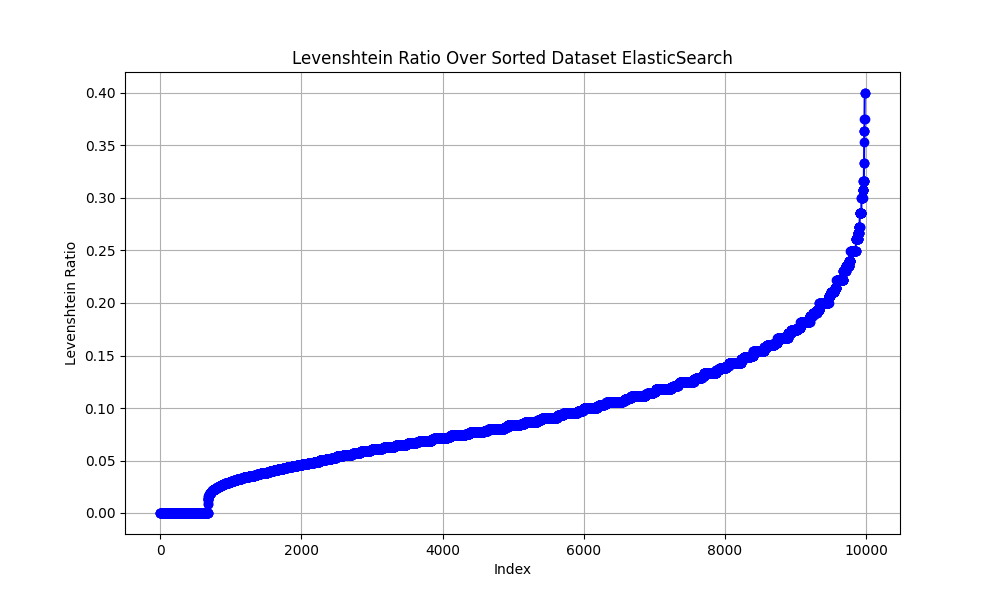
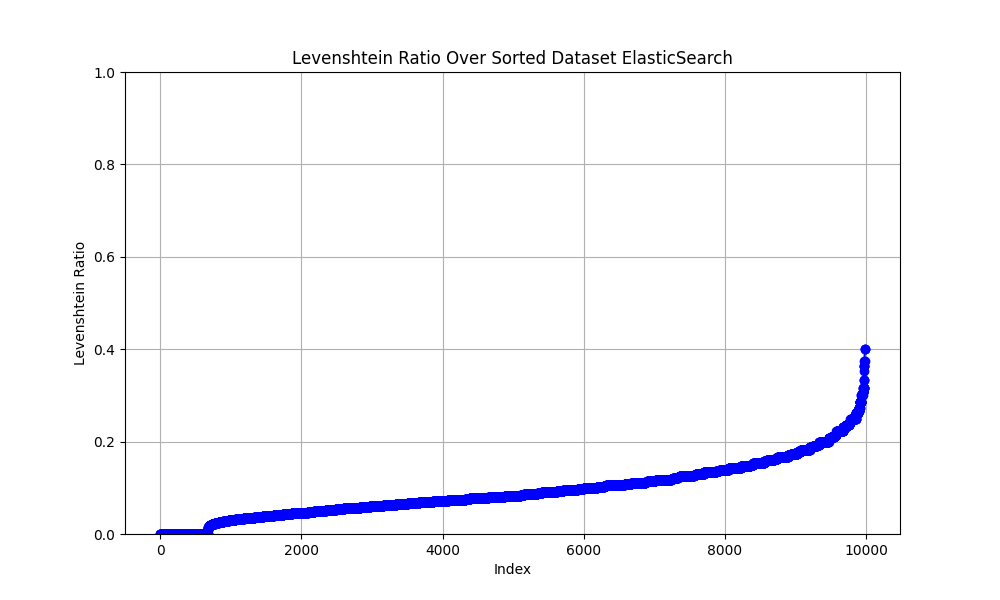
Add y value of 1.0 for elastic search

diff --git a/testing-results/testing.py b/testing-results/testing.py
@@ -3,14 +3,11 @@ import pandas as pd
 import numpy as np
 import matplotlib.pyplot as plt
 
-method = ['theAdvisor', 'PostgreSQL','MongoDB','ElasticSearch']
+method = ['ElasticSearch']
 
-file_paths = ['../data/the-advisor-match-all-1.csv', 
-              '../postreSQL/matching_results_postresql.csv',
-              '../mongoDB/matching_results_mongodb.csv',
-              '../elasticSearch/elasticsearch_matching_results.csv']
+file_paths = ['../elasticSearch/elasticsearch_matching_results.csv']
 
-output_file_paths = ['../graphs/the-advisor','../graphs/postgresql', '../graphs/mongodb', '../graphs/elasticsearch']
+output_file_paths = ['../graphs/elasticsearch']
 
 for i in range(len(file_paths)):
     data = pd.read_csv(file_paths[i])
@@ -33,6 +30,7 @@ for i in range(len(file_paths)):
 
     plt.figure(figsize=(10, 6))
     plt.plot(data_sorted.index, data_sorted['Levenshtein_Ratio'], marker='o', linestyle='-', color='b')
+    plt.ylim(0, 1)
     plt.title('Levenshtein Ratio Over Sorted Dataset '+method[i])
     plt.xlabel('Index')
     plt.ylabel('Levenshtein Ratio')
@@ -40,7 +38,7 @@ for i in range(len(file_paths)):
     plt.savefig(output_file_paths[i]+'-levenshtein-ratio.png')
 
 #---------------------Levenshtein Distance-----------------------------------
-
+'''
     data['Levenshtein_Distance'] = data.apply(
         lambda row: distance(row['Randomized_String'], row['Original_String']),
         #lambda row: ratio(row['Randomized_String'], row['Original_String']),
@@ -59,3 +57,4 @@ for i in range(len(file_paths)):
     plt.grid(True)
     plt.savefig(output_file_paths[i]+'-levenshtein-distance.png')
     print("Done")
+'''
